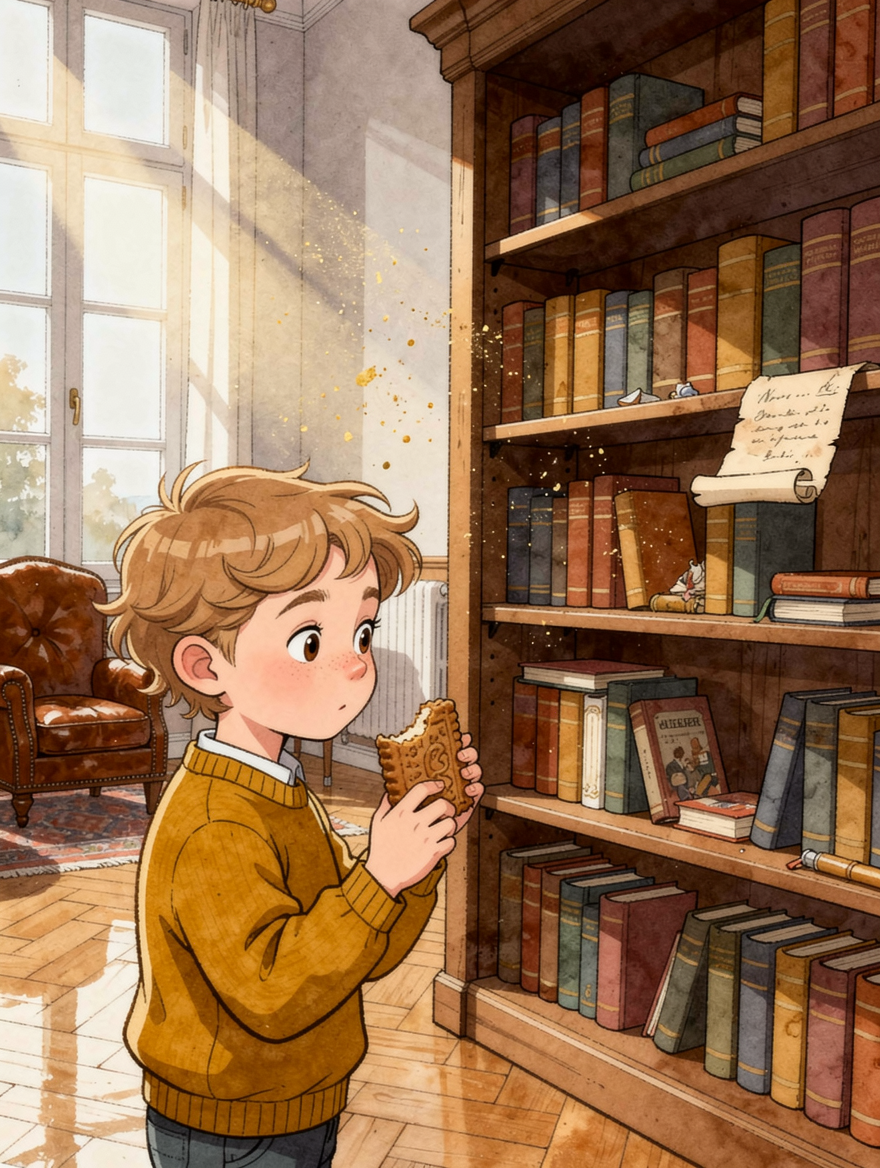
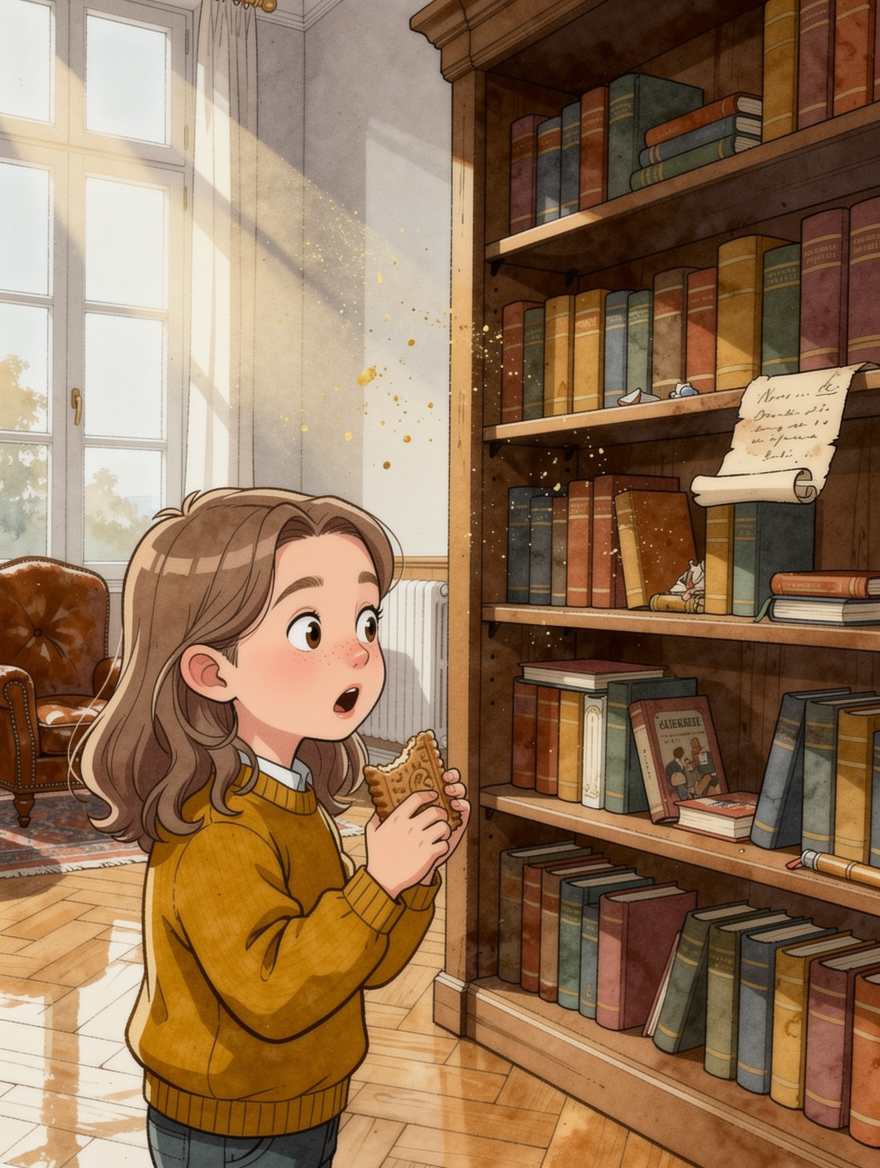
fix: generate-pages skips hero_reference + cover types + accurate display + admin guide

diff --git a/src/Command/GeneratePagesCommand.php b/src/Command/GeneratePagesCommand.php
@@ -115,7 +115,22 @@ final class GeneratePagesCommand extends Command
         $io->writeln(sprintf('Dry run: %s', $dryRun ? 'yes' : 'no'));
         $io->writeln(sprintf('Force: %s', $force ? 'yes' : 'no'));
         $io->writeln(sprintf('Photo provided: %s', '' !== $photoPath ? 'yes' : 'no'));
-        $io->writeln(sprintf('Pages: %s', implode(', ', array_map(static fn (array $scene): string => (string) ($scene['id'] ?? 'page'), $scenes))));
+        $totalScenes = count($scenes);
+        $existingScenes = 0;
+        foreach ($scenes as $scene) {
+            $sid = (string) ($scene['id'] ?? '');
+            $genPath = sprintf('%s/%s-generated.png', $outputDir, $sid);
+            if (!$force && !$dryRun && is_file($genPath)) {
+                $existingScenes++;
+            }
+        }
+        $toGenerate = $totalScenes - $existingScenes;
+        if ($dryRun) $toGenerate = $totalScenes;
+        $io->writeln(sprintf('Pages (%d total, %d to generate): %s',
+            $totalScenes,
+            $toGenerate,
+            implode(', ', array_map(static fn (array $scene): string => (string) ($scene['id'] ?? 'page'), $scenes))
+        ));
 
         if (!$dryRun) {
             $this->replicatePredictionClient->assertConfigured();

diff --git a/src/BookBlueprint/PageGenerationService.php b/src/BookBlueprint/PageGenerationService.php
@@ -35,7 +35,9 @@ final class PageGenerationService
             $type = (string) ($scene['type'] ?? '');
             $id = (string) ($scene['id'] ?? '');
 
-            if (!in_array($type, ['story', 'summary', 'backCover', 'reference', 'dedication'], true)) {
+            // Exclude reference (hero portrait generated separately by generate-hero-reference)
+            // and cover (generated separately by generate-cover)
+            if (!in_array($type, ['story', 'summary', 'backCover', 'dedication'], true)) {
                 continue;
             }
 